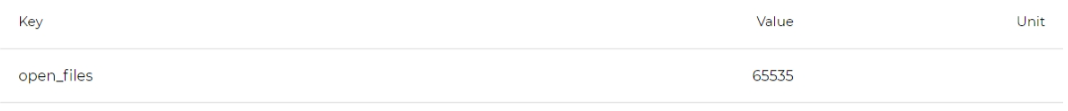
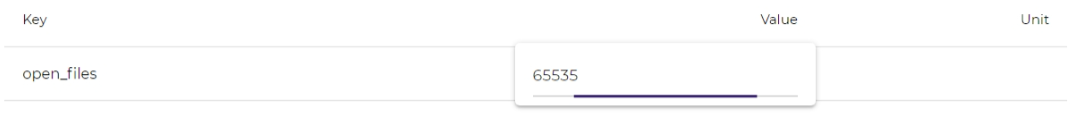
Update the management page

diff --git a/administration/management.rst b/administration/management.rst
@@ -162,6 +162,3 @@ The setting management operations:
 
     .. image:: /_static/imgs/administration/management/edit_setting_1.png
         :width: 600
-
-    .. image:: /_static/imgs/administration/management/edit_setting_2.png
-        :width: 600
